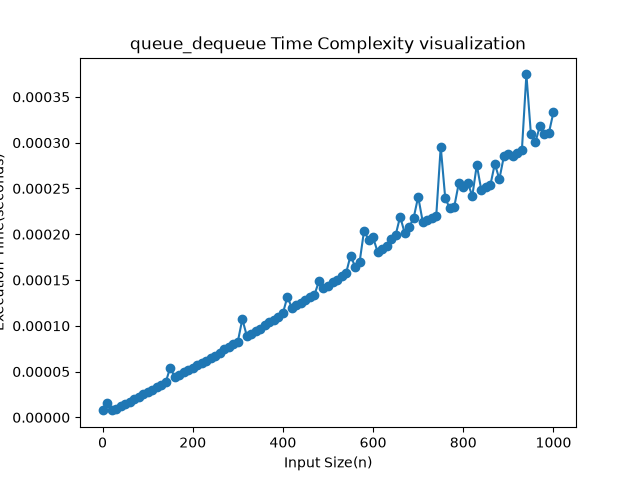
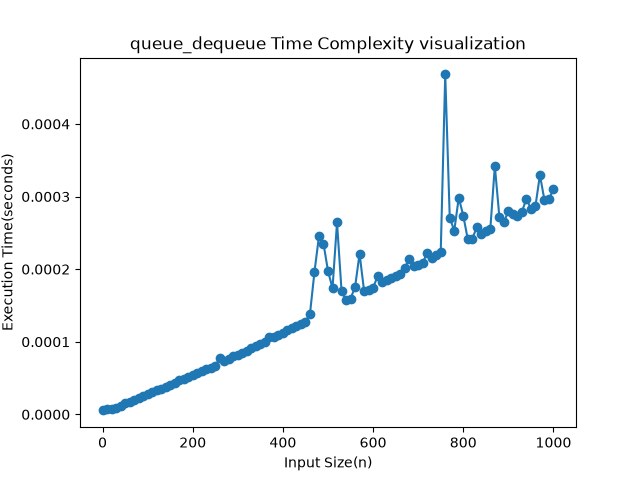
Add error handling and save endpoint to analyze algorithm complexity

diff --git a/algo_test.py b/algo_test.py
@@ -247,6 +247,18 @@ def analyze():
     step = request.args.get('step', type=int)
     n_max = request.args.get('n_max', type=int)
 
+    if algo is None or step is None or n_max is None:
+        return jsonify({
+            "error": "missing parameters",
+            "usage": "/analyze?algo=bubble_sort&step=10&n_max=1000",
+            "available_algorithms": sorted(Algorithm.keys())
+        }), 400
+
+    if step <= 0 or n_max <= 0:
+        return jsonify({
+            "error": "step an n_max must be > 0"
+        })
+
     if algo not in Algorithm:
         return jsonify({
             "error": 'Unknown Algorithm',
@@ -264,7 +276,49 @@ def analyze():
         'base64img': base64img
     })
 
+@app.route('/save', methods=['POST'])
+def save():
+    data = request.get_json()
+    algo = data.get('algo')
+    step = data.get('step')
+    n_max = data.get('n_max')
 
+
+    if algo is None or step is None or n_max is None:
+        return jsonify({
+         "Error": "missing fields",
+         "Available Algorithms": sorted(Algorithm.keys())
+        }), 400
+
+    try:
+        step = int(step)
+        n_max = int(n_max)
+    except (TypeError, ValueError):
+        return jsonify({
+            "error": "step and n_max must be integers"
+        }), 400
+    
+    if step <= 0 or n_max <= 0:
+        return jsonify({
+            "error": "step and n_max must be integers"
+        })
+    
+    if algo not in Algorithm:
+        return jsonify({
+            "error": 'Unknown Algorithm',
+            "available_algorithms": list(Algorithm.keys())
+        }), 400
+    
+    algorithm = Algorithm[algo]
+    base64img = time_complexity_visualizer(algorithm, algo, 0, n_max, step)
+        
+    
+    return jsonify({
+        'algorithm': algo,
+        'step': step,
+        'n_max': n_max,
+        'base64img': base64img
+    }), 201
 
 # time_complexity_visualizer(unique_users, 10, 1000, 10)
 # time_complexity_visualizer(binary_search, 10, 10000, 10)
